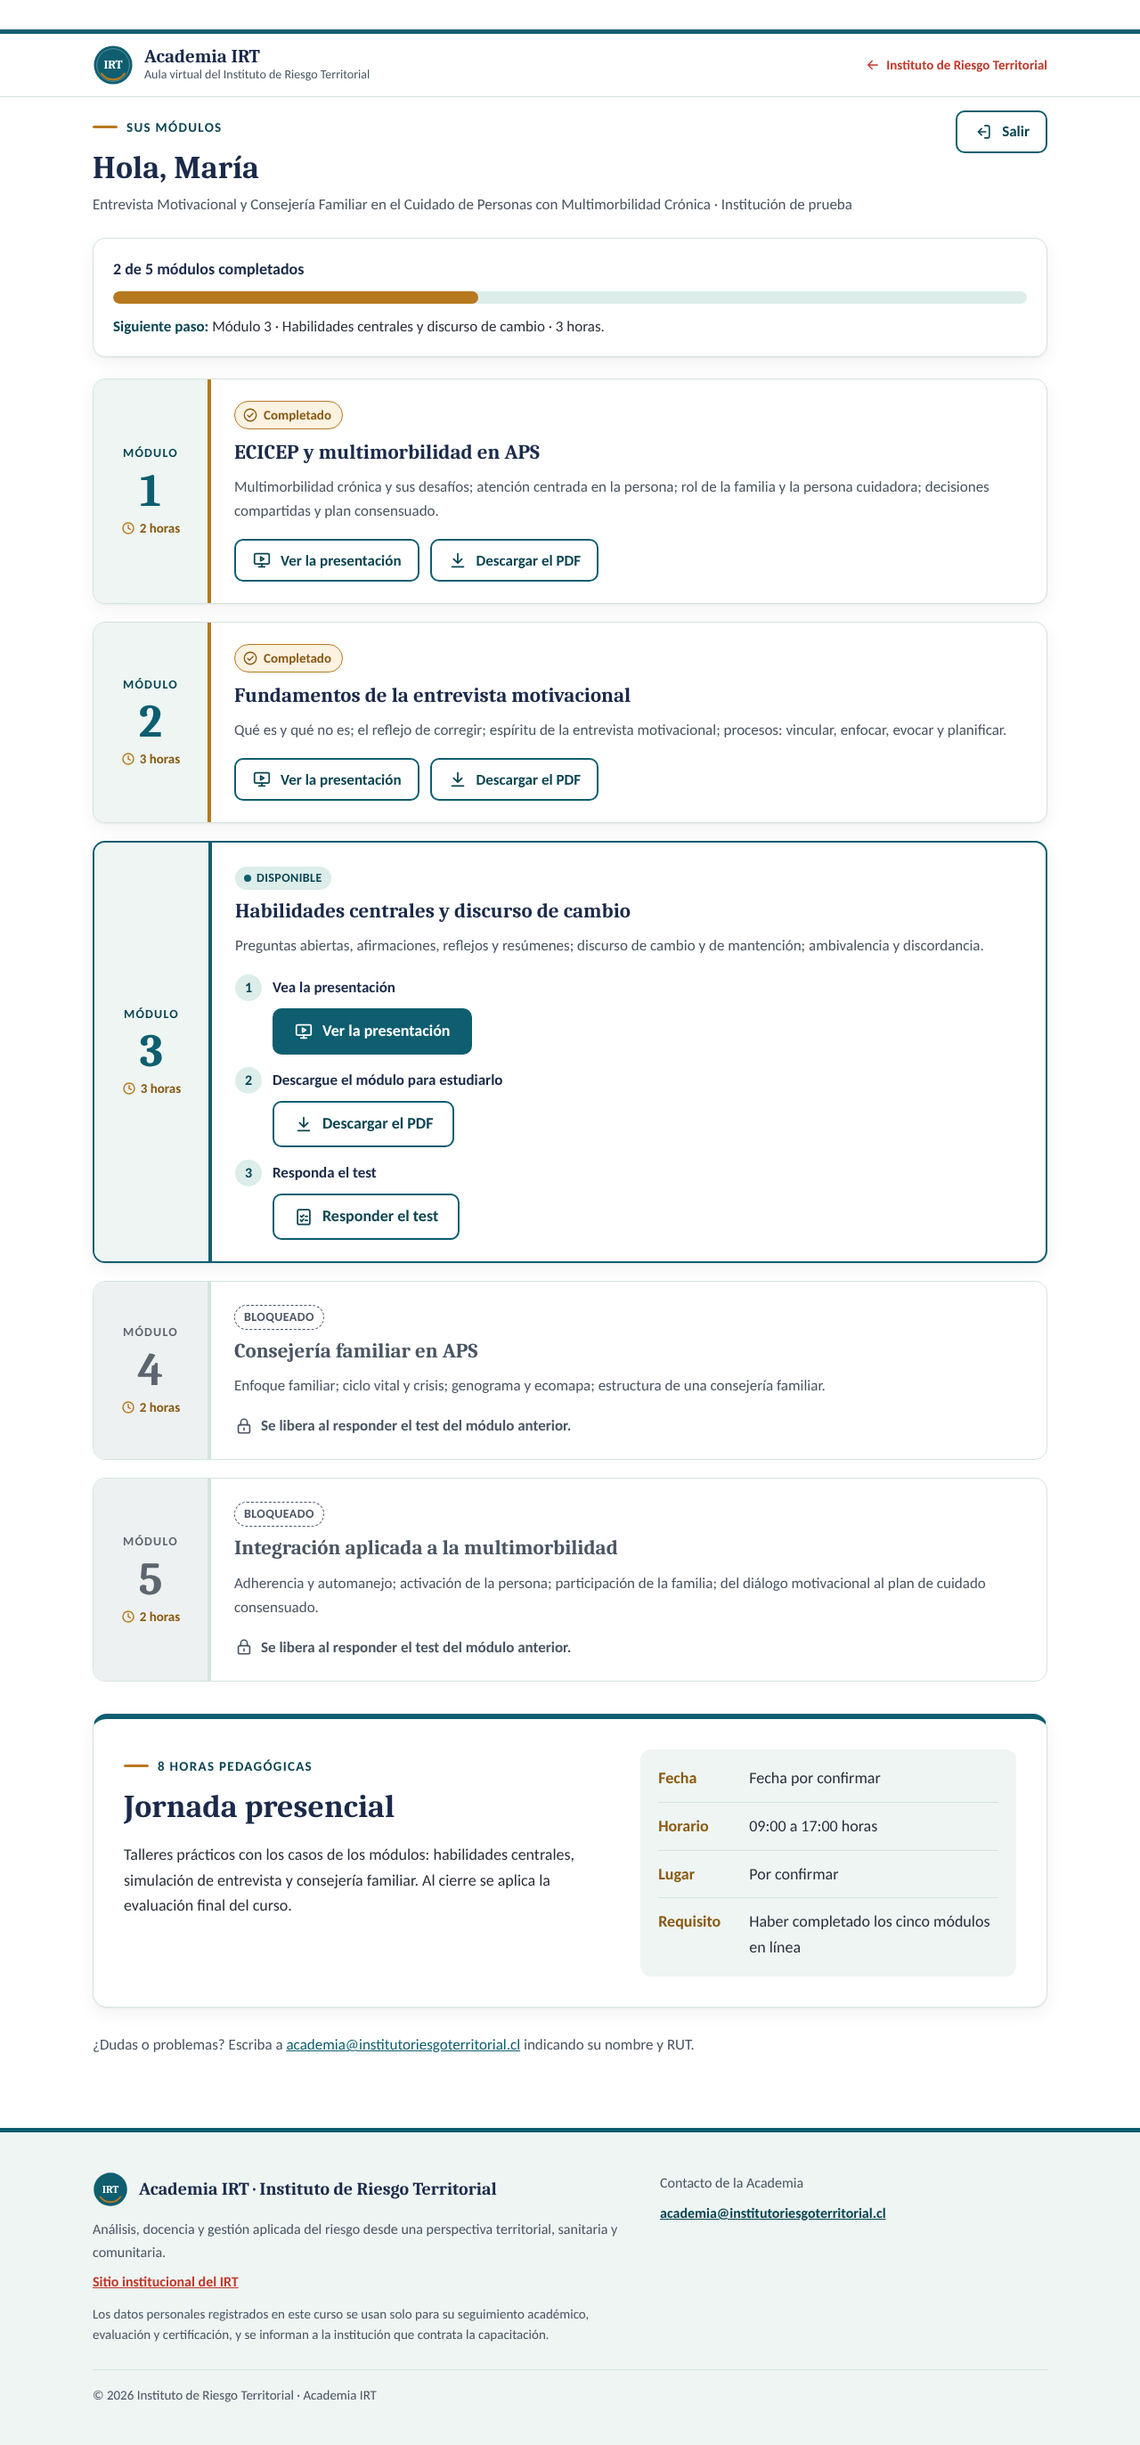
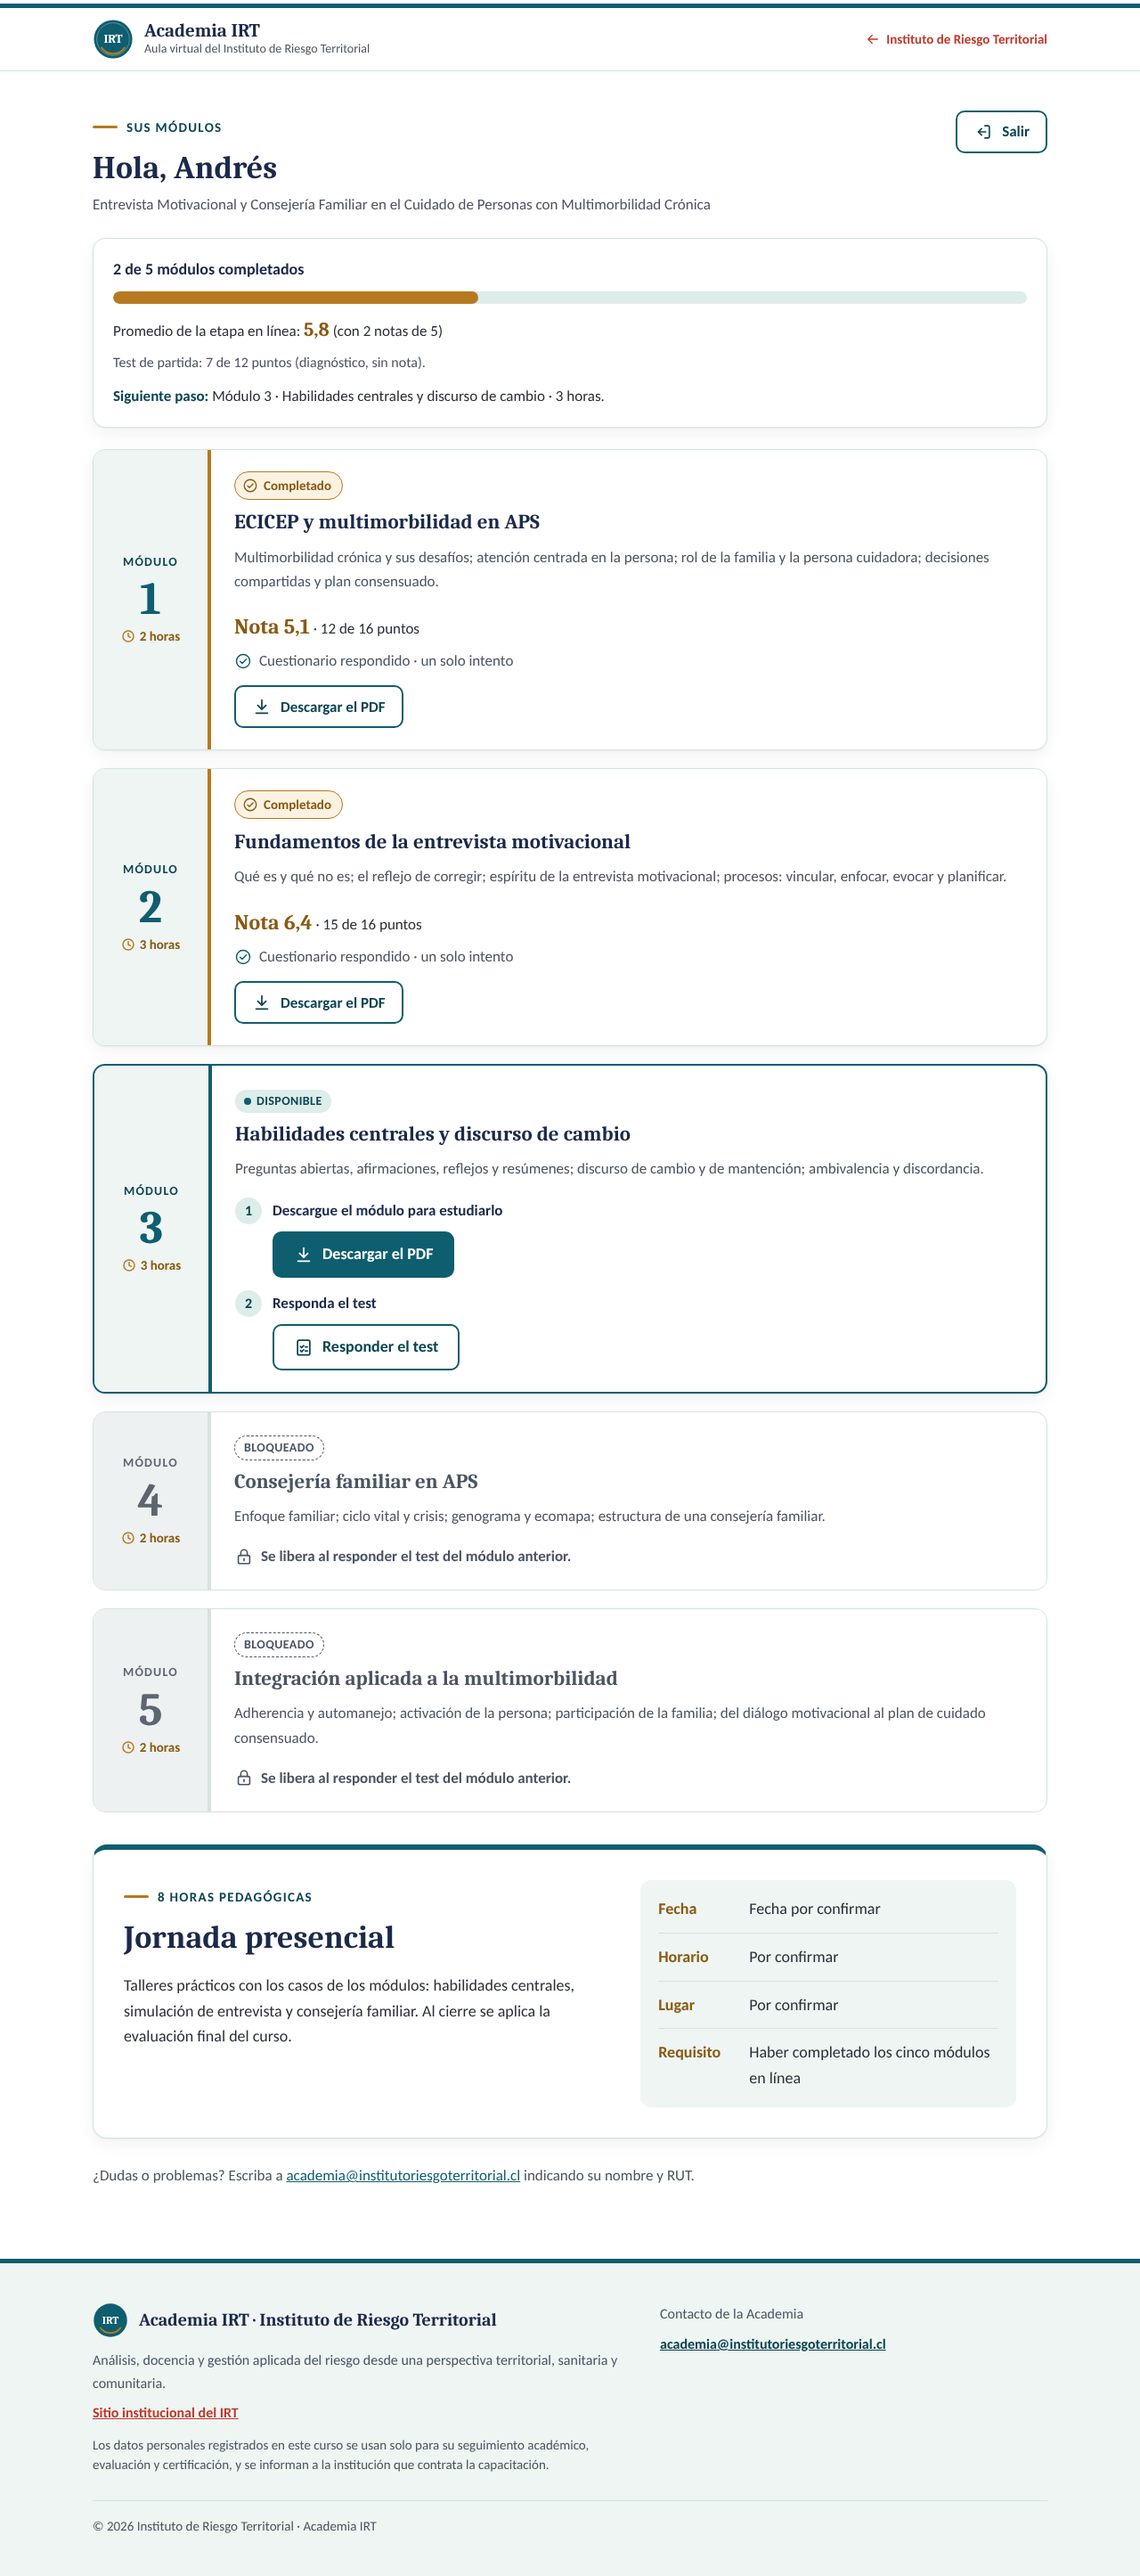
Notas y promedio de la etapa en línea en el aula, y tarjeta «Ir al curso» en la portada
- Módulo completado: nota destacada, puntaje y «Cuestionario respondido · un solo intento»
- Barra de avance: promedio de la etapa en línea y puntaje del test de partida (sin nota)
- Portada: tarjeta del curso con modalidad, 20 horas pedagógicas y botón «Ir al curso»
- Contrato del Apps Script en el README: campos puntaje, maximo, nota e inicio

Claude-Session: https://claude.ai/code/session_011VpdJbt1vd6G7thcfDG2y4

diff --git a/assets/aula-acceso.js b/assets/aula-acceso.js
@@ -208,6 +208,20 @@
     return d ? d.textContent : '';
   }
   function horas(h) { return h + (Number(h) === 1 ? ' hora' : ' horas'); }
+  // Nota chilena con coma decimal (5.1 → «5,1»); null si no llega un número
+  function numero(v) {
+    var x = typeof v === 'string' ? Number(v.replace(',', '.')) : v;
+    return typeof x === 'number' && isFinite(x) ? x : null;
+  }
+  function formatoNota(v) {
+    var x = numero(v);
+    return x === null ? '' : (Math.round(x * 10) / 10).toFixed(1).replace('.', ',');
+  }
+  function puntos(p, max) {
+    p = numero(p); max = numero(max);
+    if (p === null) return '';
+    return max === null ? p + ' puntos' : p + ' de ' + max + ' puntos';
+  }
 
   function pasoModulo(texto, boton, extra) {
     var li = el('li', 'paso-modulo');
@@ -293,6 +307,20 @@
       if (test) pasos.appendChild(pasoModulo('Responda el test', botonExterno(test, 'Responder el test', 'btn--secundario btn--test')));
       cuerpo.appendChild(pasos);
     } else if (estado === 'completado') {
+      // Nota destacada; sin botón de test: cada cuestionario tiene un solo intento
+      var nota = formatoNota(m.nota);
+      var pts = puntos(m.puntaje, m.maximo);
+      if (nota || pts) {
+        var pn = el('p', 'modulo__nota');
+        if (nota) pn.appendChild(el('b', null, 'Nota ' + nota));
+        if (nota && pts) pn.appendChild(document.createTextNode(' · '));
+        if (pts) pn.appendChild(document.createTextNode(pts));
+        cuerpo.appendChild(pn);
+      }
+      var resp = el('p', 'respondido');
+      resp.appendChild(icono('i-completado'));
+      resp.appendChild(document.createTextNode('Cuestionario respondido · un solo intento'));
+      cuerpo.appendChild(resp);
       var c = el('div', 'btns');
       var visorC = pres ? visorPresentacion(pres, m, true) : null;
       if (visorC) c.appendChild(visorC.boton);
@@ -329,6 +357,27 @@
     barra.setAttribute('aria-valuemax', String(total));
     barra.setAttribute('aria-valuenow', String(hechos));
     $('aula-progreso-relleno').style.width = Math.round(100 * hechos / total) + '%';
+
+    // Promedio de la etapa en línea, con las notas disponibles
+    var notas = modulos.map(function (m) { return m.estado === 'completado' ? numero(m.nota) : null; })
+      .filter(function (x) { return x !== null; });
+    var promedio = $('aula-promedio');
+    promedio.textContent = '';
+    if (notas.length) {
+      var suma = notas.reduce(function (a, b) { return a + b; }, 0);
+      promedio.appendChild(document.createTextNode('Promedio de la etapa en línea: '));
+      promedio.appendChild(el('b', null, formatoNota(suma / notas.length)));
+      promedio.appendChild(document.createTextNode(notas.length < total
+        ? ' (con ' + notas.length + (notas.length === 1 ? ' nota' : ' notas') + ' de ' + total + ')'
+        : ''));
+    }
+    promedio.hidden = !notas.length;
+
+    // Test de partida respondido: puntaje, sin nota
+    var inicio = d.inicio || {};
+    var ptsInicio = puntos(inicio.puntaje, inicio.maximo);
+    $('aula-inicio').textContent = ptsInicio ? 'Test de partida: ' + ptsInicio + ' (diagnóstico, sin nota).' : '';
+    $('aula-inicio').hidden = !ptsInicio;
 
     // Qué sigue
     var siguiente = $('aula-siguiente');

diff --git a/assets/academia.css b/assets/academia.css
@@ -486,6 +486,9 @@ html.con-ventana{overflow:hidden}
 .progreso__barra span{display:block;height:100%;width:0;border-radius:999px;background:var(--ocre);transition:width .4s ease}
 .progreso__siguiente{margin:12px 0 0;font-size:17px;color:var(--texto)}
 .progreso__siguiente b{color:var(--petroleo-osc)}
+.progreso__promedio{margin:12px 0 0;font-size:17px;color:var(--texto)}
+.progreso__promedio b{font-family:var(--f-titulo);font-size:22px;color:var(--ocre-osc)}
+.progreso__inicio{margin:6px 0 0;font-size:16px;color:var(--texto-suave)}
 
 .partida{display:flex;gap:18px;align-items:flex-start;background:var(--blanco);border:2px solid var(--petroleo);border-radius:var(--radio);padding:24px;margin-bottom:20px;box-shadow:var(--sombra)}
 .partida .tarjeta__ico{flex:none;margin:0}
@@ -496,6 +499,10 @@ html.con-ventana{overflow:hidden}
 .insignia-completado{display:inline-flex;align-items:center;gap:6px;padding:3px 12px 3px 8px;border-radius:999px;border:1px solid var(--ocre);background:var(--ocre-claro);color:var(--ocre-osc);font-size:15px;font-weight:700}
 .insignia-completado .ico{width:18px;height:18px;color:var(--ocre-osc)}
 .modulo--completado .num{border-right-color:var(--ocre)}
+.modulo__nota{margin:0 0 6px!important;font-size:17px;color:var(--texto)!important}
+.modulo__nota b{font-family:var(--f-titulo);font-size:24px;color:var(--ocre-osc)}
+.respondido{display:flex;align-items:center;gap:8px;margin:0 0 14px!important;font-size:16px;color:var(--texto-suave)!important}
+.respondido .ico{width:20px;height:20px;color:var(--petroleo)}
 .modulo--disponible{border:2px solid var(--petroleo)}
 .modulo--bloqueado{box-shadow:none}
 .modulo--bloqueado .num{background:var(--pendiente-fondo);border-right-color:var(--linea)}

diff --git a/index.html b/index.html
@@ -22,7 +22,7 @@
 <link rel="preconnect" href="https://fonts.googleapis.com">
 <link rel="preconnect" href="https://fonts.gstatic.com" crossorigin>
 <link href="https://fonts.googleapis.com/css2?family=Caladea:wght@400;700&family=Carlito:ital,wght@0,400;0,700;1,400&display=swap" rel="stylesheet">
-<link rel="stylesheet" href="/assets/academia.css?v=20261014">
+<link rel="stylesheet" href="/assets/academia.css?v=20261015">
 </head>
 <body>
 <a class="saltar" href="#contenido">Saltar al contenido</a>
@@ -340,6 +340,17 @@
         </ul>
       </div>
       <a class="btn btn--primario" href="/cursos/">Ingresar a mis cursos<svg class="ico" aria-hidden="true"><use href="/assets/iconos.svg?v=20261014#i-flecha"/></svg></a>
+    </article>
+    <article class="curso-tarjeta" aria-labelledby="titulo-curso-em">
+      <div class="curso-tarjeta__texto">
+        <span class="etiqueta etiqueta--suave">Curso</span>
+        <h3 id="titulo-curso-em">Entrevista Motivacional y Consejería Familiar en el Cuidado de Personas con Multimorbilidad Crónica</h3>
+        <ul class="ficha__datos">
+          <li><svg class="ico" aria-hidden="true"><use href="/assets/iconos.svg?v=20261014#i-modalidad"/></svg><span>En línea, a su ritmo, más una jornada presencial</span></li>
+          <li><svg class="ico" aria-hidden="true"><use href="/assets/iconos.svg?v=20261014#i-reloj"/></svg><span>20 horas pedagógicas</span></li>
+        </ul>
+      </div>
+      <a class="btn btn--primario" href="/cursos/entrevista-motivacional/">Ir al curso<svg class="ico" aria-hidden="true"><use href="/assets/iconos.svg?v=20261014#i-flecha"/></svg></a>
     </article>
   </div>
 </section>

diff --git a/cursos/entrevista-motivacional/index.html b/cursos/entrevista-motivacional/index.html
@@ -11,7 +11,7 @@
 <link rel="preconnect" href="https://fonts.googleapis.com">
 <link rel="preconnect" href="https://fonts.gstatic.com" crossorigin>
 <link href="https://fonts.googleapis.com/css2?family=Caladea:wght@400;700&family=Carlito:ital,wght@0,400;0,700;1,400&display=swap" rel="stylesheet">
-<link rel="stylesheet" href="/assets/academia.css?v=20261014">
+<link rel="stylesheet" href="/assets/academia.css?v=20261015">
 </head>
 <body>
 <a class="saltar" href="#contenido">Saltar al contenido</a>
@@ -154,6 +154,8 @@
     <div class="progreso">
       <p class="progreso__texto" id="aula-progreso-texto">0 de 5 módulos completados</p>
       <div class="progreso__barra" id="aula-progreso" role="progressbar" aria-labelledby="aula-progreso-texto" aria-valuemin="0" aria-valuemax="5" aria-valuenow="0"><span id="aula-progreso-relleno"></span></div>
+      <p class="progreso__promedio" id="aula-promedio" hidden></p>
+      <p class="progreso__inicio" id="aula-inicio" hidden></p>
       <p class="progreso__siguiente" id="aula-siguiente"></p>
     </div>
 
@@ -210,6 +212,6 @@
 
 <script src="/assets/academia.js?v=20261014"></script>
 <script src="/assets/aula-cursos.js?v=20261014"></script>
-<script src="/assets/aula-acceso.js?v=20261014"></script>
+<script src="/assets/aula-acceso.js?v=20261015"></script>
 </body>
 </html>

diff --git a/plantillas/curso.html b/plantillas/curso.html
@@ -24,7 +24,7 @@
 <link rel="preconnect" href="https://fonts.googleapis.com">
 <link rel="preconnect" href="https://fonts.gstatic.com" crossorigin>
 <link href="https://fonts.googleapis.com/css2?family=Caladea:wght@400;700&family=Carlito:ital,wght@0,400;0,700;1,400&display=swap" rel="stylesheet">
-<link rel="stylesheet" href="/assets/academia.css?v=20261014">
+<link rel="stylesheet" href="/assets/academia.css?v=20261015">
 </head>
 <body>
 <a class="saltar" href="#contenido">Saltar al contenido</a>
@@ -167,6 +167,8 @@
     <div class="progreso">
       <p class="progreso__texto" id="aula-progreso-texto">0 de 5 módulos completados</p>
       <div class="progreso__barra" id="aula-progreso" role="progressbar" aria-labelledby="aula-progreso-texto" aria-valuemin="0" aria-valuemax="5" aria-valuenow="0"><span id="aula-progreso-relleno"></span></div>
+      <p class="progreso__promedio" id="aula-promedio" hidden></p>
+      <p class="progreso__inicio" id="aula-inicio" hidden></p>
       <p class="progreso__siguiente" id="aula-siguiente"></p>
     </div>
 
@@ -223,6 +225,6 @@
 
 <script src="/assets/academia.js?v=20261014"></script>
 <script src="/assets/aula-cursos.js?v=20261014"></script>
-<script src="/assets/aula-acceso.js?v=20261014"></script>
+<script src="/assets/aula-acceso.js?v=20261015"></script>
 </body>
 </html>

diff --git a/cursos/index.html b/cursos/index.html
@@ -11,7 +11,7 @@
 <link rel="preconnect" href="https://fonts.googleapis.com">
 <link rel="preconnect" href="https://fonts.gstatic.com" crossorigin>
 <link href="https://fonts.googleapis.com/css2?family=Caladea:wght@400;700&family=Carlito:ital,wght@0,400;0,700;1,400&display=swap" rel="stylesheet">
-<link rel="stylesheet" href="/assets/academia.css?v=20261014">
+<link rel="stylesheet" href="/assets/academia.css?v=20261015">
 </head>
 <body>
 <a class="saltar" href="#contenido">Saltar al contenido</a>
@@ -111,6 +111,6 @@
 
 <script src="/assets/academia.js?v=20261014"></script>
 <script src="/assets/aula-cursos.js?v=20261014"></script>
-<script src="/assets/aula-acceso.js?v=20261014"></script>
+<script src="/assets/aula-acceso.js?v=20261015"></script>
 </body>
 </html>

diff --git a/donihue-2026-k7q3x9/index.html b/donihue-2026-k7q3x9/index.html
@@ -12,7 +12,7 @@
 <link rel="preconnect" href="https://fonts.googleapis.com">
 <link rel="preconnect" href="https://fonts.gstatic.com" crossorigin>
 <link href="https://fonts.googleapis.com/css2?family=Caladea:wght@400;700&family=Carlito:ital,wght@0,400;0,700;1,400&display=swap" rel="stylesheet">
-<link rel="stylesheet" href="/assets/academia.css?v=20261014">
+<link rel="stylesheet" href="/assets/academia.css?v=20261015">
 </head>
 <body>
 <!-- Dirección antigua del curso. Se mantiene porque hay correos enviados con ella:

diff --git a/404.html b/404.html
@@ -11,7 +11,7 @@
 <link rel="preconnect" href="https://fonts.googleapis.com">
 <link rel="preconnect" href="https://fonts.gstatic.com" crossorigin>
 <link href="https://fonts.googleapis.com/css2?family=Caladea:wght@400;700&family=Carlito:ital,wght@0,400;0,700;1,400&display=swap" rel="stylesheet">
-<link rel="stylesheet" href="/assets/academia.css?v=20261014">
+<link rel="stylesheet" href="/assets/academia.css?v=20261015">
 </head>
 <body>
 

diff --git a/README.md b/README.md
@@ -78,7 +78,7 @@ Use la plantilla `plantillas/curso.html`: ya tiene la identidad de la Academia, 
 
 Las secciones de la página de cada curso tienen anclas: `#introduccion`, `#como`, `#modulos` e `#ingresar`. Ejemplo: `…/cursos/entrevista-motivacional/#ingresar`.
 
-**Estilos compartidos.** Todas las páginas cargan `/assets/academia.css?v=20261014`. Si modifica ese archivo, cambie la fecha de `?v=` en todas las páginas (portada, 404, cursos, redirección y plantilla) para que los navegadores descarguen la versión nueva. Lo mismo para `academia.js`, `aula-cursos.js`, `aula-acceso.js` e `iconos.svg` (este último también está en `ICONOS`, al inicio de `aula-acceso.js`).
+**Estilos compartidos.** Todas las páginas cargan `/assets/academia.css?v=20261015`. Si modifica ese archivo, cambie la fecha de `?v=` en todas las páginas (portada, 404, cursos, redirección y plantilla) para que los navegadores descarguen la versión nueva. Lo mismo para `academia.js`, `aula-cursos.js`, `aula-acceso.js` e `iconos.svg` (este último también está en `ICONOS`, al inicio de `aula-acceso.js`).
 
 ## 4. Direcciones antiguas
 
@@ -103,12 +103,12 @@ La página del curso tiene dos estados:
 
 | Envía la página | Responde el Apps Script |
 |---|---|
-| `{ "identificador": "12345678-9" }` o `{ "identificador": "correo@…" }` | Inscrito: `{ "ok": true, "nombre", "token", "institucion"?, "partida": { "completado", "test"? }, "modulos": [ { "n", "titulo", "horas", "estado", "pdf"?, "presentacion"?, "test"? } ], "jornada": { "fecha", "horario", "lugar", "requisito"?, "pdf"? }, "programa"? }` |
+| `{ "identificador": "12345678-9" }` o `{ "identificador": "correo@…" }` | Inscrito: `{ "ok": true, "nombre", "token", "institucion"?, "partida": { "completado", "test"? }, "inicio"?: { "puntaje", "maximo" }, "modulos": [ { "n", "titulo", "horas", "estado", "pdf"?, "presentacion"?, "test"?, "puntaje"?, "maximo"?, "nota"? } ], "jornada": { "fecha", "horario", "lugar", "requisito"?, "pdf"? }, "programa"? }` |
 | `{ "identificador": "", "token": "…" }` (al recargar) | Lo mismo, o `{ "ok": false, "motivo": "sesion_vencida" }` |
 | En modo `RUT_Y_CORREO`: `{ "identificador": RUT, "correo": … }` | Si falta uno: `{ "ok": false, "motivo": "faltan_datos" }` (la página muestra el segundo campo) |
 | — | No inscrito: `{ "ok": false, "motivo": "no_inscrito" }` · Demasiados intentos: `{ "ok": false, "motivo": "espera" }` |
 
-`estado` es `completado`, `disponible` o `bloqueado`; `pdf`, `presentacion` y `test` solo llegan cuando no está bloqueado. `presentacion` es opcional: si llega, el módulo muestra «Ver la presentación» y la abre dentro de la página (el visor se carga recién al abrirla); si no, el primer paso es descargar el PDF. La página solo acepta enlaces `https://` y escribe los textos como texto (nunca como HTML). Si `fecha`, `horario` o `lugar` llegan como `[PENDIENTE…]`, muestra «Fecha por confirmar» o «Por confirmar».
+`estado` es `completado`, `disponible` o `bloqueado`; `pdf` y `presentacion` solo llegan cuando no está bloqueado, y `test` solo cuando está `disponible` (cada cuestionario tiene un solo intento). Un módulo `completado` trae `puntaje`, `maximo` y `nota` (primer envío del RUT, escala 1,0 a 7,0, exigencia 60 %): la tarjeta muestra «Nota 5,1 · 12 de 16 puntos» y «Cuestionario respondido · un solo intento», y la barra de avance muestra el promedio de la etapa en línea con las notas disponibles. `inicio` es el puntaje del test de partida, que no lleva nota. `presentacion` es opcional: si llega, el módulo muestra «Ver la presentación» y la abre dentro de la página (el visor se carga recién al abrirla); si no, el primer paso es descargar el PDF. La página solo acepta enlaces `https://` y escribe los textos como texto (nunca como HTML). Si `fecha`, `horario` o `lugar` llegan como `[PENDIENTE…]`, muestra «Fecha por confirmar» o «Por confirmar».
 
 ## 6. Solicitudes de capacitación y dirección del sitio institucional
 
